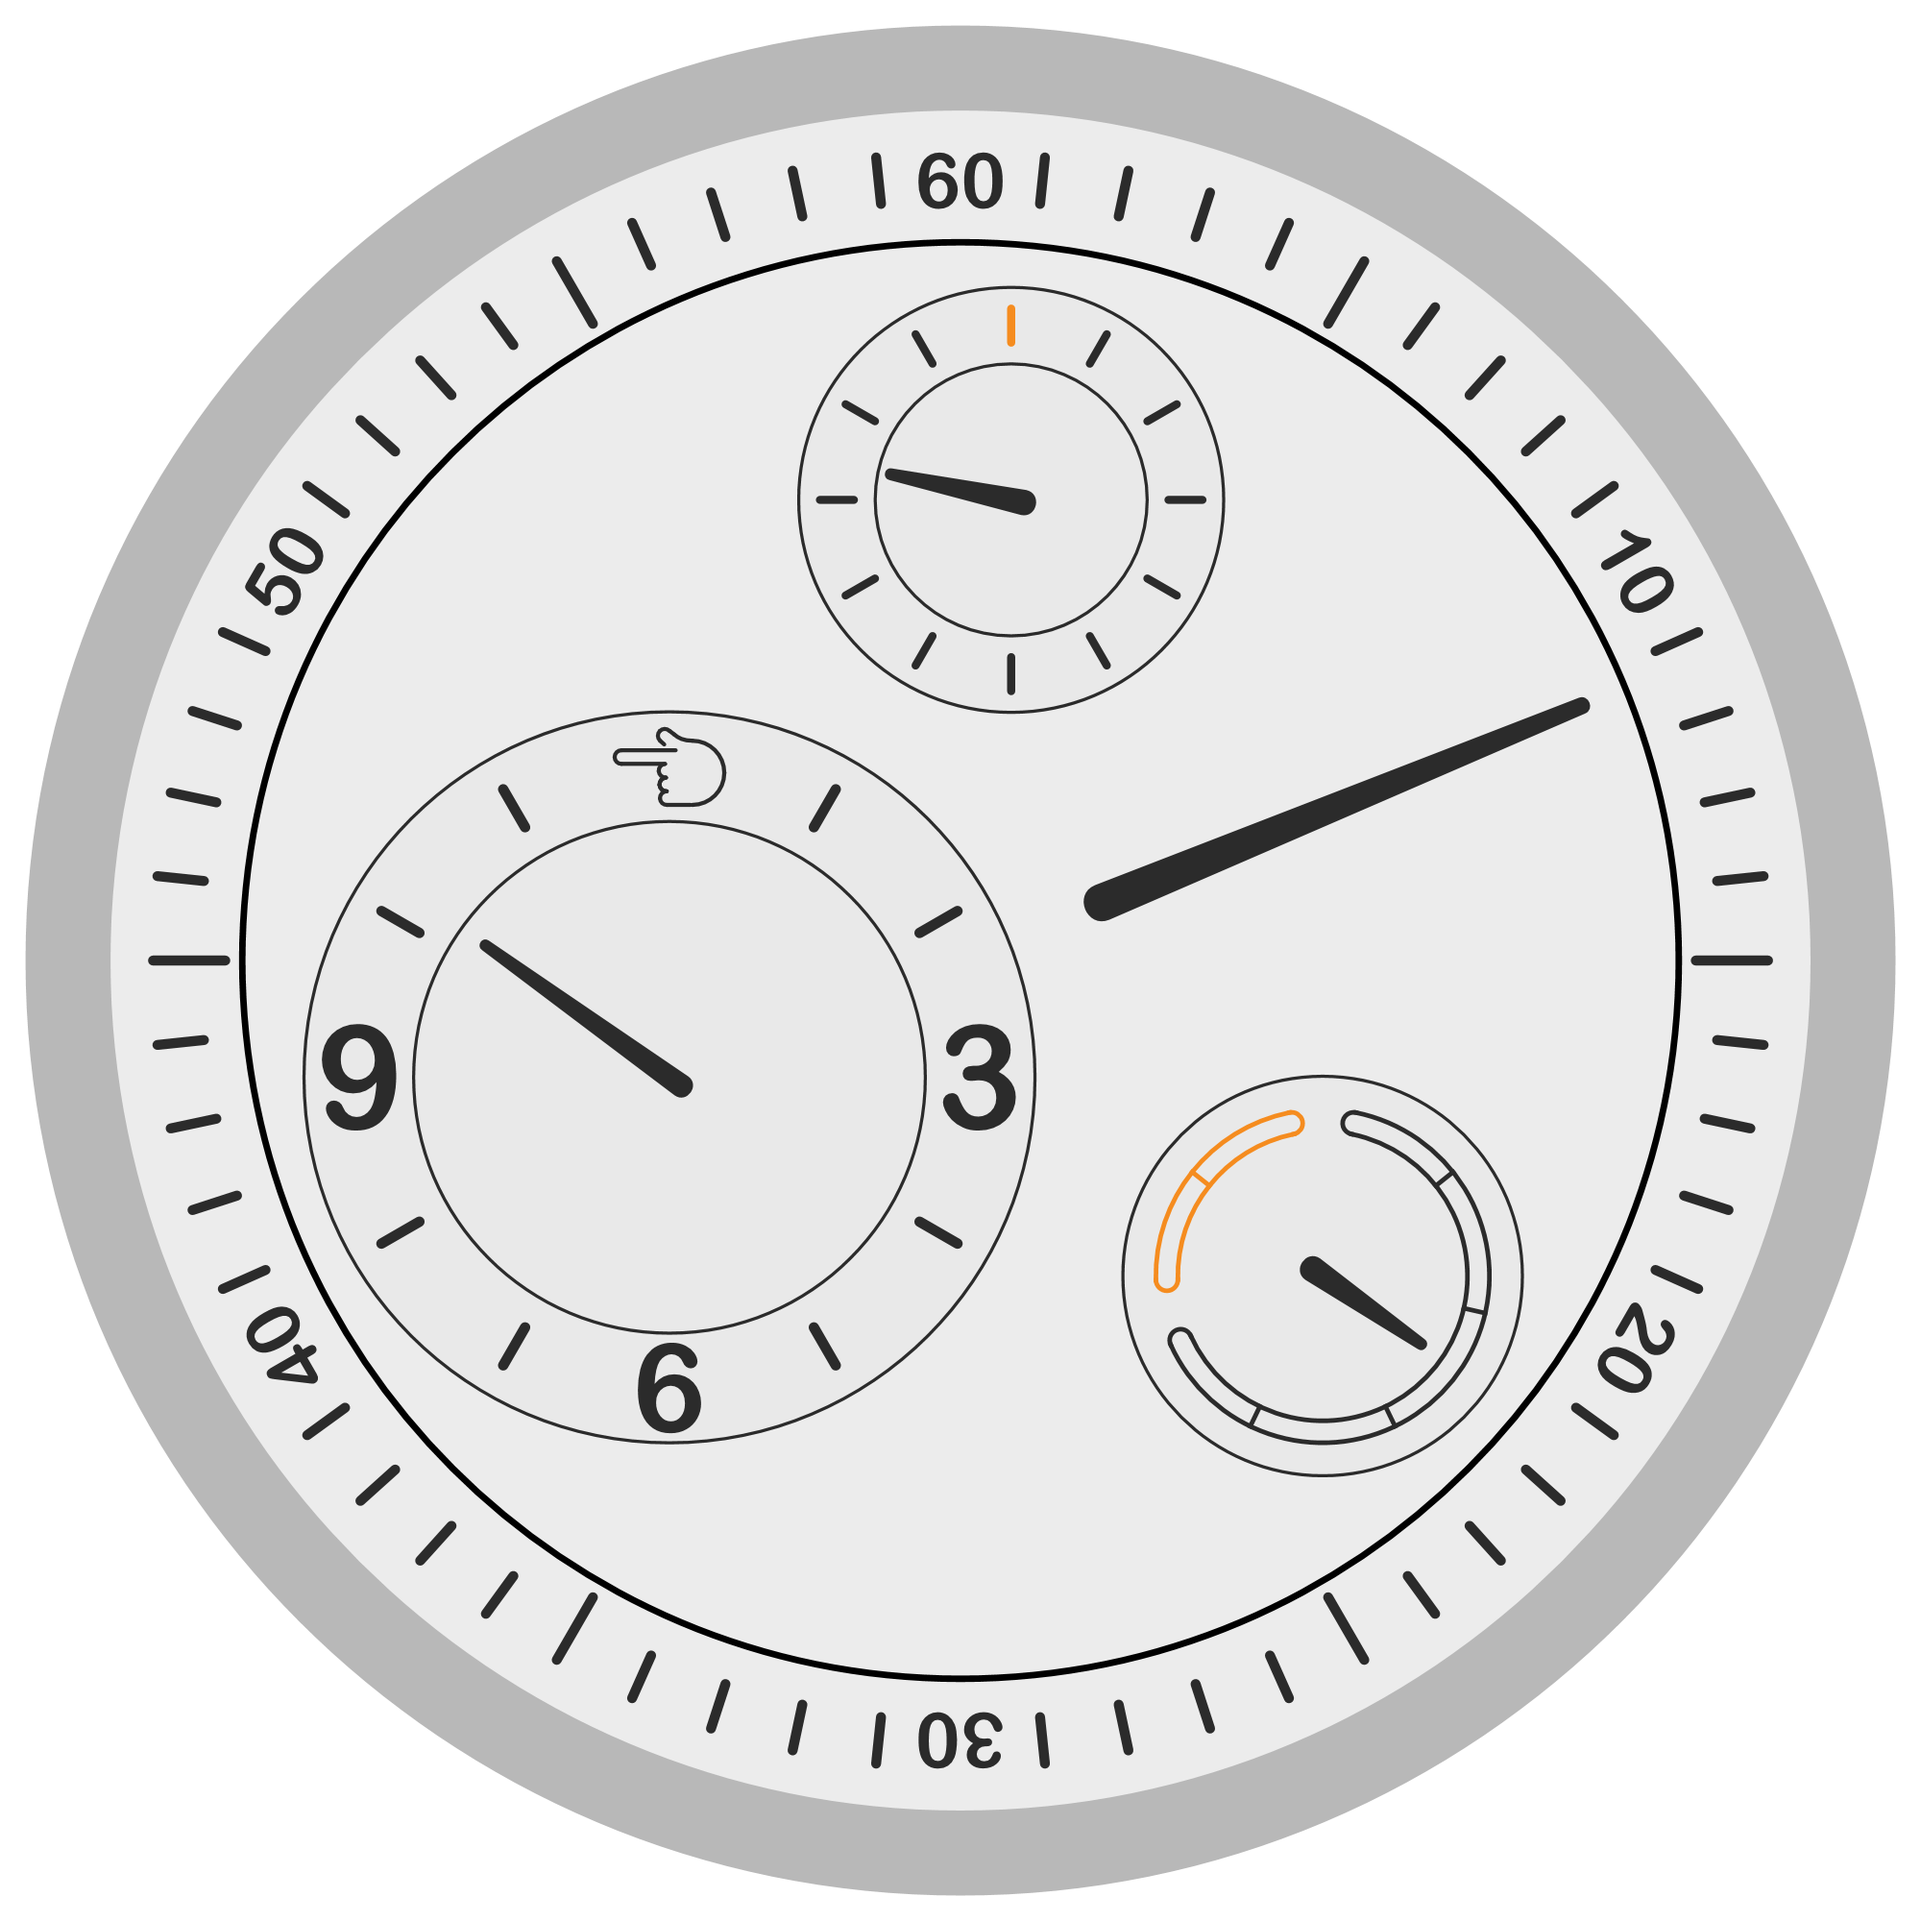
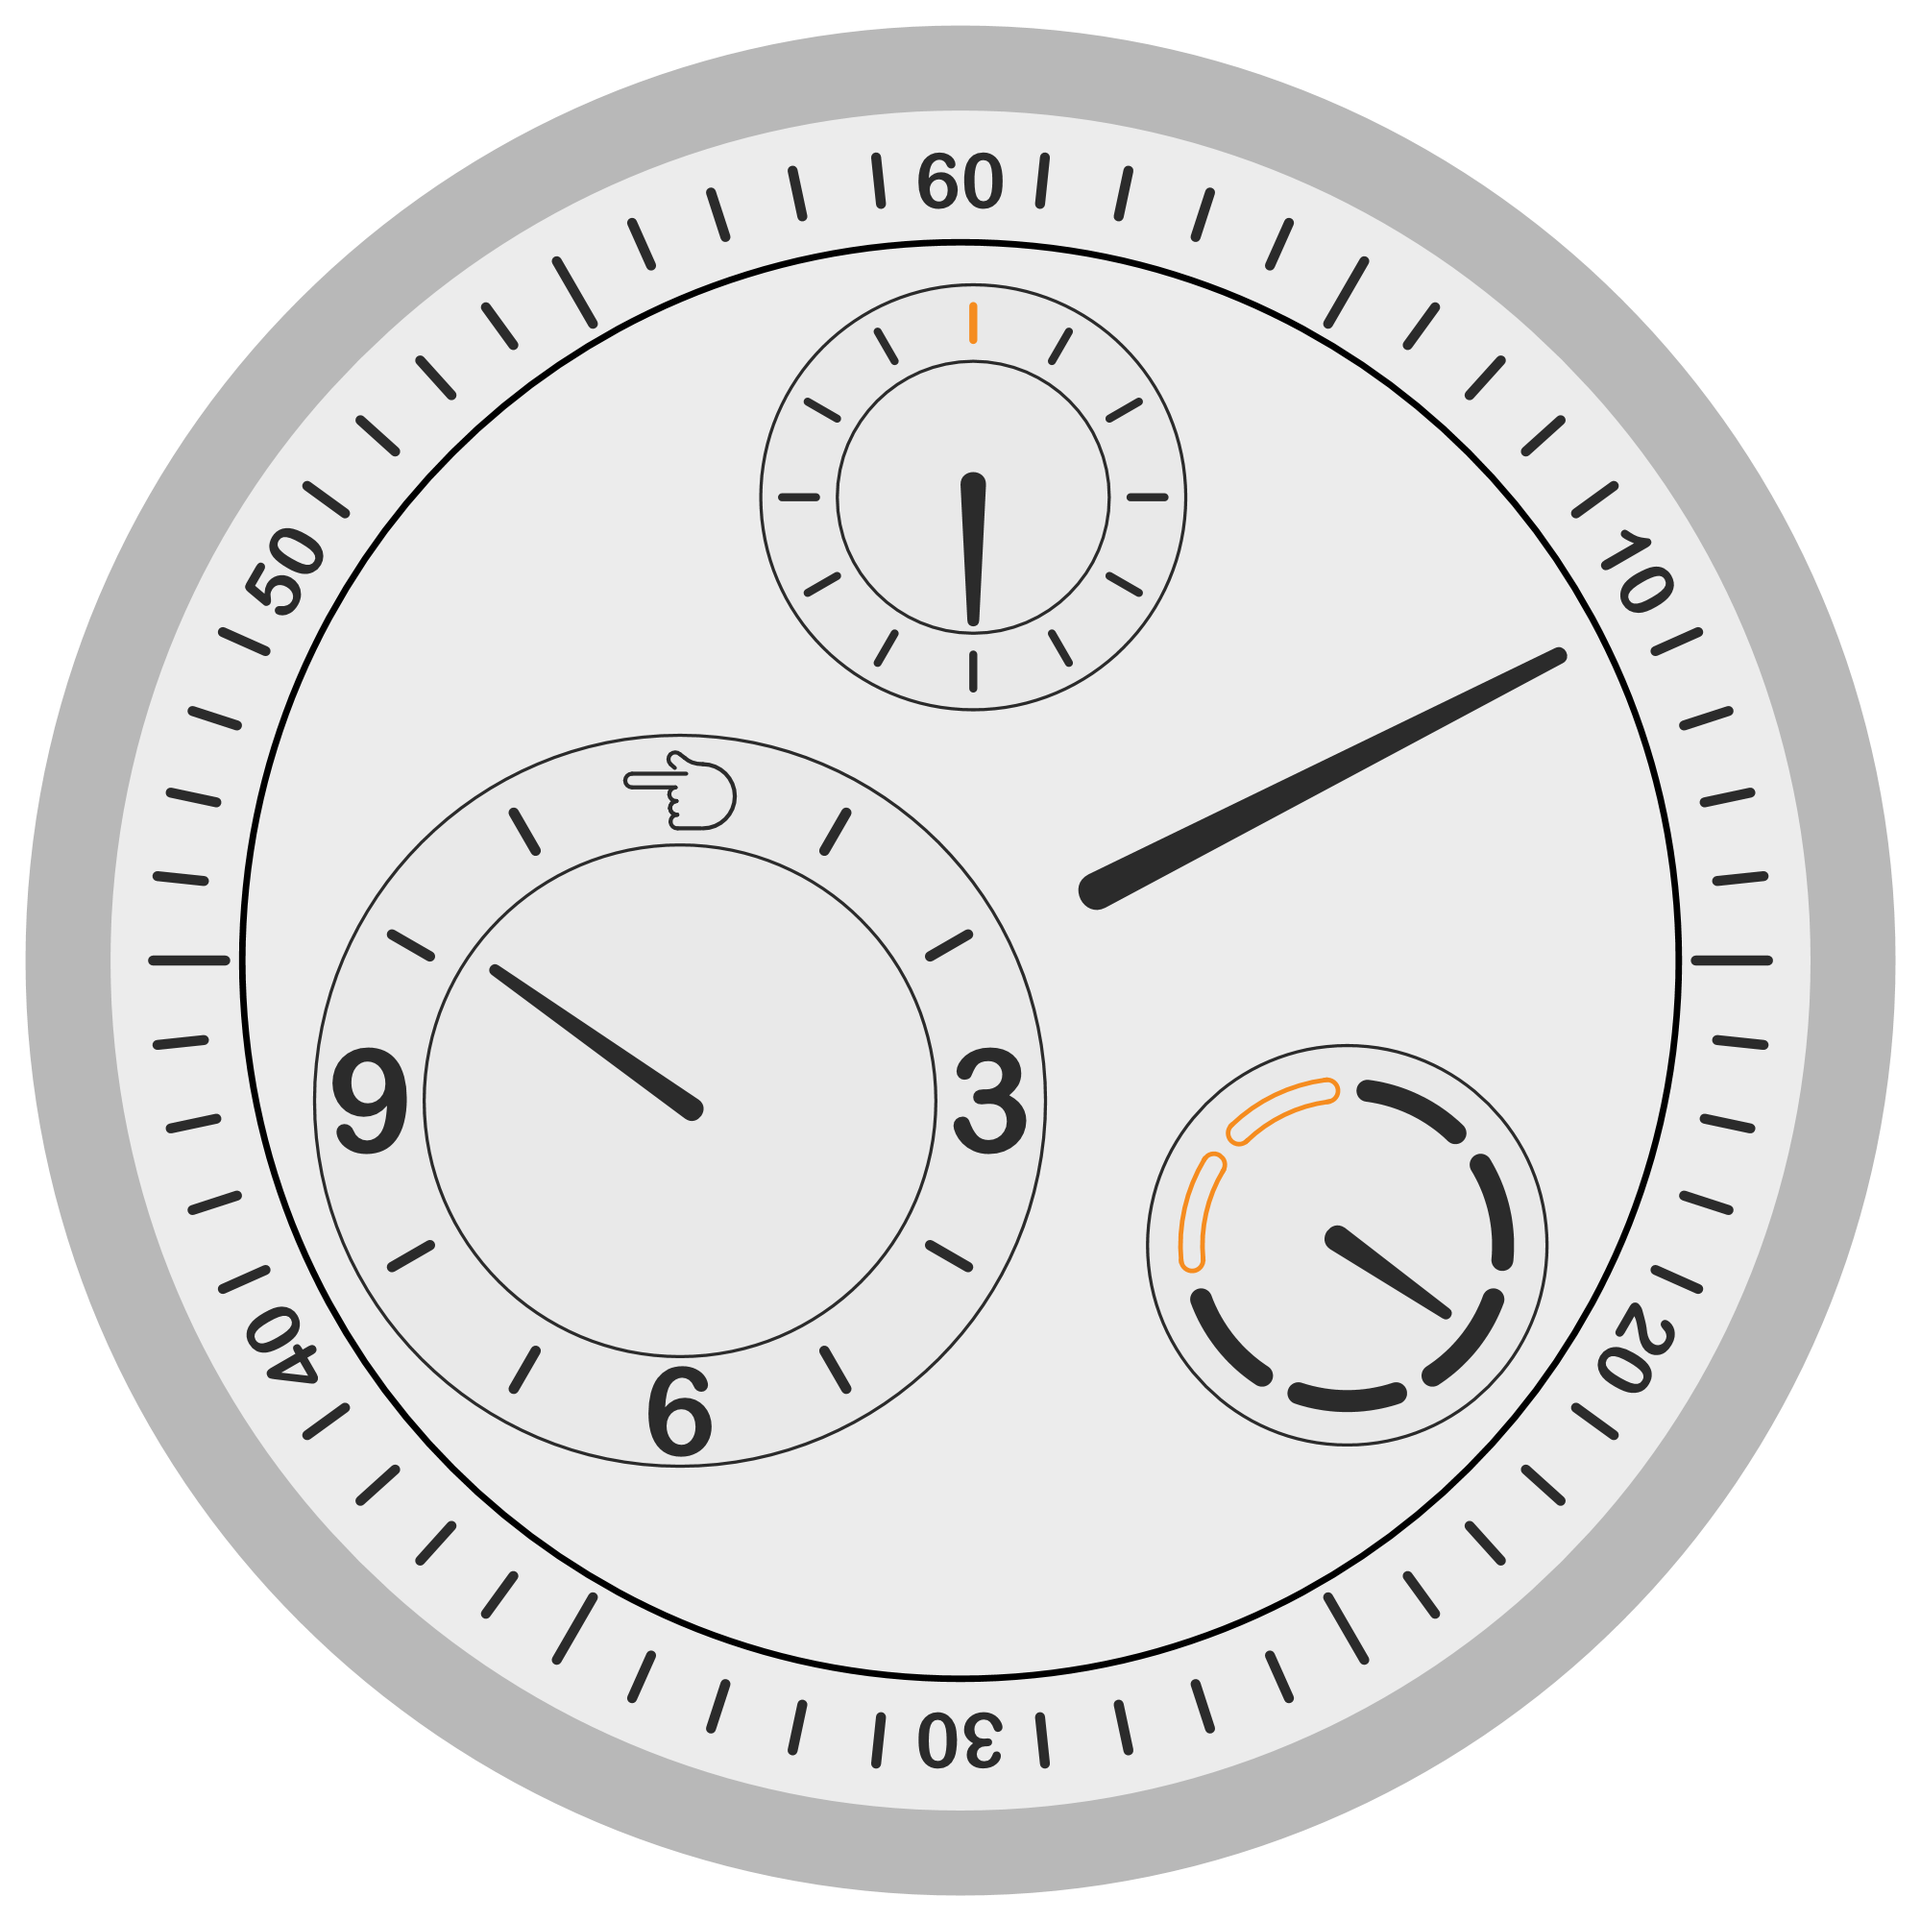
Split the day dial into one tube per day, solid for weekdays

diff --git a/README.md b/README.md
@@ -12,7 +12,7 @@ Ressence watches use the ROCS (Ressence Orbital Convex System): there are no cen
 - **Satellites:** the hour, seconds and day-of-week dials are mounted on the disc. They orbit with it, but they're counter-geared so the rings never spin: numerals and ticks stay upright, and only the hand inside each one turns.
 - **Hour dial:** upright numerals at 3, 6 and 9, each as large as fits between the ring's two circles, short bars at the other hours, with the OpenMoji 👈 emoji at 12; the hand turns on the inner disc.
 - **Seconds dial:** 12 ticks between two rings, with the 12 o'clock tick in orange.
-- **Day dial:** two hollow tubes, Monday–Friday and (in orange) Saturday–Sunday, clockwise from 12 o'clock, each day taking a seventh of the turn and marked off by small dividers. The hand moves through the current day's arc over the day.
+- **Day dial:** one short tube per day, clockwise from 12 o'clock, each taking a seventh of the turn: solid black for Monday–Friday, hollow orange for Saturday–Sunday. The hand moves through the current day's arc over the day.
 
 ## Usage
 
